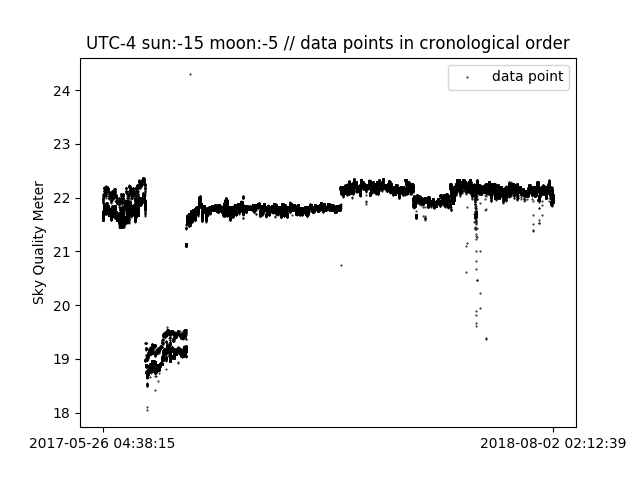
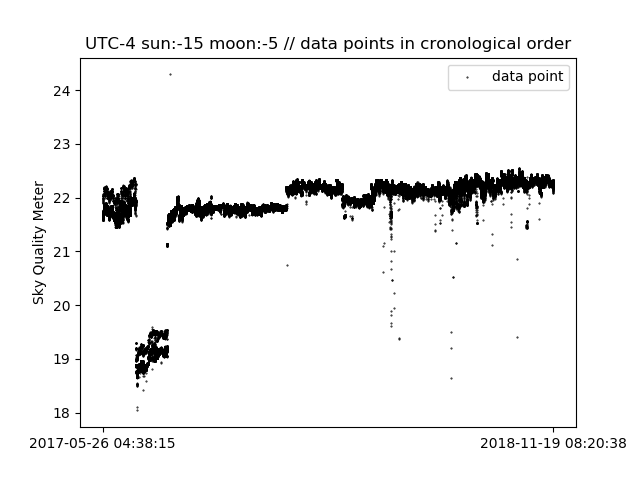
asd

diff --git a/offsets_corr.py b/offsets_corr.py
@@ -14,20 +14,19 @@ from datetime import datetime
 import matplotlib.dates as mdates
 
 [db_cursor, database] = WS.db_connect()
-search = "SELECT `UTC`, `sqm` FROM `weather` WHERE \
-`UTC` >= '2017-01-01 03:29:25' AND `UTC` <= '2018-12-01 01:08:24' AND \
+search = "SELECT `fecha`, `sqm` FROM `weather` WHERE \
 `SunElevation` < -15 AND `MoonElevation` < -5 AND \
-`weatherstatus`= 'Go Science!' ORDER BY `UTC` ASC LIMIT 1000000"
+`weatherstatus`= 'Go Science!' ORDER BY `fecha` ASC"
 
 db_cursor.execute(search)
 res = db_cursor.fetchall()
 print "From ", res[0], " to ", res[-1]
-# y = []
-# x = []
-# offset = 0.7-3.2+2.09+0.32-0.28-0.11-0.19-0.29+0.28+0.34
-# y2 = []
-# x2 = []
-# offset2 = 0.7+2.09+0.32-0.28-0.11-0.19-0.29+0.28+0.34
+y = []
+x = []
+offset = 0.7-3.2+2.09+0.32-0.28-0.11-0.19-0.29+0.28+0.34
+y2 = []
+x2 = []
+offset2 = 0.7+2.09+0.32-0.28-0.11-0.19-0.29+0.28+0.34
 y3 = []
 x3 = []
 offset3 = 0.35+0.32-0.28-0.11-0.19-0.29+0.28+0.34
@@ -55,19 +54,20 @@ counter = 0
 for e in res:
     #print e[0]
     date = datetime.strptime(e[0], '%Y-%m-%d %H:%M:%S')
-    if (date.hour-4)  >= 0 and (date.hour-4) < 12:
-        time = datetime(1900,1,2,(date.hour-4),date.minute,date.second,0)
-    elif (date.hour-4) < 0:
-        time = datetime(1900,1,1,24+(date.hour-4),date.minute,date.second,0)
-    else:
-        time = datetime(1900,1,1,(date.hour-4),date.minute,date.second,0)
-    # if e[0] <= '2017-07-04 10:29:14':
-    # 	x.append(time)
-    # 	y.append(e[1] + offset)
-    # elif e[0] <= '2017-08-05 10:17:15':
-    #     x2.append(time)
-    # 	y2.append(e[1] + offset2)
-    if e[0] <= '2017-11-30 08:15:29' and e[0] > '2017-08-05 10:17:15':
+    time = date
+    # if (date.hour-4)  >= 0 and (date.hour-4) < 12:
+    #     time = datetime(1900,1,2,(date.hour-4),date.minute,date.second,0)
+    # elif (date.hour-4) < 0:
+    #     time = datetime(1900,1,1,24+(date.hour-4),date.minute,date.second,0)
+    # else:
+    #     time = datetime(1900,1,1,(date.hour-4),date.minute,date.second,0)
+    if e[0] <= '2017-07-04 10:29:14':
+    	x.append(time)
+    	y.append(e[1] + offset)
+    elif e[0] <= '2017-08-05 10:17:15':
+        x2.append(time)
+    	y2.append(e[1] + offset2)
+    elif e[0] <= '2017-11-30 08:15:29':
         x3.append(time)
     	y3.append(e[1] + offset3)
     elif e[0] <= '2018-01-29 08:54:35':
@@ -94,8 +94,8 @@ for e in res:
     counter += 1
 
 print "There are " + str(counter) + " data points."
-#plt.scatter(x, y, 0.2, c='black', alpha=1)
-#plt.scatter(x2, y2, 0.2, c='r', alpha=1)
+plt.scatter(x, y, 0.2, c='black', alpha=1)
+plt.scatter(x2, y2, 0.2, c='r', alpha=1)
 plt.scatter(x3, y3, 0.05, c='black', alpha=0.05)
 plt.scatter(x4, y4, 0.05, c='black', alpha=0.05)
 plt.scatter(x5, y5, 0.05, c='black', alpha=0.05)
@@ -107,12 +107,16 @@ plt.scatter(x10, y10, 0.05, c='black', alpha=0.05)
 #plt.legend()
 plt.title('UTC // sun:-15 moon:-5 // first months filtered // offsets applied')
 plt.ylabel('Sky Quality Meter')
-time_start = datetime(1900,1,1,19,0,0,0)
-time_end = datetime(1900,1,2,6,59,59,999999)
+# time_start = datetime(1900,1,1,19,0,0,0)
+# time_end = datetime(1900,1,2,6,59,59,999999)
+#'2017-08-05 10:17:15'
+#'2018-08-11 00:44:30'
+time_start = datetime(2017,8,5,10,17,15,0)
+time_end = datetime(2018,8,11,0,44,30,0)
 plt.xlim(time_start, time_end)
 plt.grid(True)
 plt.gcf().autofmt_xdate()
 myFmt = mdates.DateFormatter('%H:%M')
 plt.gca().xaxis.set_major_formatter(myFmt)
-plt.savefig("offsets_corr3.png")
+plt.savefig("offsets_corr5.png")
 plt.show()

diff --git a/offsets_sid.py b/offsets_sid.py
@@ -50,6 +50,8 @@ offset8 = 0.28+0.34
 y9 = []
 x9 = []
 offset9 = 0.34
+y10 = []
+x10 = []
 counter = 0
 for e in res:
     time = datetime.strptime(e[2], '%H:%M:%S.%f')
@@ -60,7 +62,7 @@ for e in res:
     # elif e[0] <= '2017-08-05 10:17:15':
     #     x2.append(time)
     # 	y2.append(e[1] + offset2)
-    if e[0] <= '2017-11-30 08:15:29' and e[0] > '2017-08-05 10:17:15':
+    if e[0] <= '2017-11-30 08:15:29':
         x3.append(time)
     	y3.append(e[1] + offset3)
     elif e[0] <= '2018-01-29 08:54:35':
@@ -81,18 +83,22 @@ for e in res:
     elif e[0] <= '2018-02-22 09:19:23':
         x9.append(time)
     	y9.append(e[1] + offset9)
+    else:
+        x10.append(time)
+        y10.append(e[1])
     counter += 1
 
 print "There are " + str(counter) + " data points."
 # plt.scatter(x, y, 1, c='black', alpha=0.05)
 # plt.scatter(x2, y2, 1, c='r', alpha=0.05)
-plt.scatter(x3, y3, 0.1, c='black', alpha=0.05)
-plt.scatter(x4, y4, 0.1, c='black', alpha=0.05)
-plt.scatter(x5, y5, 0.1, c='black', alpha=0.05)
-plt.scatter(x6, y6, 0.1, c='black', alpha=0.05)
-plt.scatter(x7, y7, 0.1, c='black', alpha=0.05)
-plt.scatter(x8, y8, 0.1, c='black', alpha=0.05)
-plt.scatter(x9, y9, 0.1, c='black', alpha=0.05)
+plt.scatter(x3, y3, 0.05, c='black', alpha=0.05)
+plt.scatter(x4, y4, 0.05, c='black', alpha=0.05)
+plt.scatter(x5, y5, 0.05, c='black', alpha=0.05)
+plt.scatter(x6, y6, 0.05, c='black', alpha=0.05)
+plt.scatter(x7, y7, 0.05, c='black', alpha=0.05)
+plt.scatter(x8, y8, 0.05, c='black', alpha=0.05)
+plt.scatter(x9, y9, 0.05, c='black', alpha=0.05)
+#plt.scatter(x10, y10, 0.05, c='black', alpha=0.05)
 #plt.legend()
 plt.title('Sidereal time // sun:-15 moon:-5 // offsets applied')
 plt.ylabel('Sky Quality Meter')
@@ -103,5 +109,5 @@ plt.grid(True)
 plt.gcf().autofmt_xdate()
 myFmt = mdates.DateFormatter('%H:%M')
 plt.gca().xaxis.set_major_formatter(myFmt)
-plt.savefig("offsets_sid.png")
+plt.savefig("offsets_sid_antes.png")
 plt.show()

diff --git a/modMySQL_p2.py b/modMySQL_p2.py
@@ -1,0 +1,42 @@
+######### DESCRIPCION ###########################################
+# modMySQL_p2.py
+# Primer set de datos (id 469891 a 469950) de la hora del cambio 
+# de hora, estos aun son fecha en UTC-3. Despues segundo set de 
+# datos (id 469951 a 470010), estos ya son fecha en UTC-4.
+# O almenos parto desde esa idea.
+#################################################################
+
+#!/usr/bin/python
+import WeatherStatistics as WS
+import numpy as np
+#matplotlib.use("Agg")
+from matplotlib import pyplot as plt
+import matplotlib.dates as mpldates
+import dateutil
+from numpy import append,array,where,pi,polyfit,where,mean
+from pylab import cm
+import datetime
+import pymysql.cursors
+import ephemerids
+
+[db_cursor, database] = WS.db_connect()
+search = "SELECT `fecha`, `id` FROM `weather_calib` \
+WHERE `id` > '469890' \
+AND `id` < '469951'"
+
+db_cursor.execute(search)
+res = db_cursor.fetchall()
+print "From ", res[0], " to ", res[-1]
+
+for e in res:
+    fecha = e[0]
+    delta = datetime.timedelta(hours=3)
+    UTC = fecha + delta
+    id = e[1]
+    print id
+
+    modify = "UPDATE `weather_calib` \
+    SET `UTC` = '%s' \
+    WHERE `id` = '%s'" % (UTC, id)
+
+    db_cursor.execute(modify)

diff --git a/modMySQL.py b/modMySQL.py
@@ -1,0 +1,42 @@
+######### DESCRIPCION ########################################
+# modMySQL.py
+# UTC calculado para datos entre '2018-04-29 14:44:32' y 
+# '2018-05-12 22:59:38' (suponiendo que fecha esta en formato 
+# UTC-4 durante horario de invierno.
+##############################################################
+
+#!/usr/bin/python
+import WeatherStatistics as WS
+import numpy as np
+#matplotlib.use("Agg")
+from matplotlib import pyplot as plt
+import matplotlib.dates as mpldates
+import dateutil
+from numpy import append,array,where,pi,polyfit,where,mean
+from pylab import cm
+import datetime
+import pymysql.cursors
+import ephemerids
+
+
+[db_cursor, database] = WS.db_connect()
+search = "SELECT `fecha`, `id` FROM `weather_calib` \
+WHERE `id` > '450918' \
+AND `id` < '469891'"
+
+db_cursor.execute(search)
+res = db_cursor.fetchall()
+print "From ", res[0], " to ", res[-1]
+
+for e in res:
+    fecha = e[0]
+    delta = datetime.timedelta(hours=3)
+    UTC = fecha + delta
+    id = e[1]
+    print id
+
+    modify = "UPDATE `weather_calib` \
+    SET `UTC` = '%s' \
+    WHERE `id` = '%s'" % (UTC, id)
+
+    db_cursor.execute(modify)

diff --git a/modMySQL_p3.py b/modMySQL_p3.py
@@ -1,0 +1,40 @@
+############### DESCRIPCION ##################################
+# modMySQL_p3.py
+# Los datos despues de p2 (id 470011 a 576186), es decir desde 
+# 13 Mayo hasta el 2018-07-27 14:42:44. Son horario invierno, 
+# es decir UTC-4. 
+##############################################################
+#!/usr/bin/python
+import WeatherStatistics as WS
+import numpy as np
+#matplotlib.use("Agg")
+from matplotlib import pyplot as plt
+import matplotlib.dates as mpldates
+import dateutil
+from numpy import append,array,where,pi,polyfit,where,mean
+from pylab import cm
+import datetime
+import pymysql.cursors
+import ephemerids
+
+[db_cursor, database] = WS.db_connect()
+search = "SELECT `fecha`, `id` FROM `weather_calib` \
+WHERE `id` >= '470011' \
+AND `id` <= '576186'"
+
+db_cursor.execute(search)
+res = db_cursor.fetchall()
+print "From ", res[0], " to ", res[-1]
+
+for e in res:
+    fecha = e[0]
+    delta = datetime.timedelta(hours=4)
+    UTC = fecha + delta
+    id = e[1]
+    print id
+
+    modify = "UPDATE `weather_calib` \
+    SET `UTC` = '%s' \
+    WHERE `id` = '%s'" % (UTC, id)
+
+    db_cursor.execute(modify)

diff --git a/plot1.py b/plot1.py
@@ -15,9 +15,8 @@ colors = ['r', 'y', 'b', 'greenyellow', 'c', 'g', 'black']
 
 [db_cursor, database] = WS.db_connect()
 search = "SELECT `UTC`, `sqm` FROM `weather` WHERE \
-`UTC` >= '2017-01-01 03:29:25' AND `UTC` <= '2018-12-25 01:08:24' AND \
 `SunElevation` < -15 AND `MoonElevation` < -5 AND \
-`weatherstatus`= 'Go Science!' ORDER BY `UTC` ASC LIMIT 1000000"
+`weatherstatus`= 'Go Science!' ORDER BY `UTC` ASC"
 
 db_cursor.execute(search)
 res = db_cursor.fetchall()
@@ -39,5 +38,5 @@ plt.ylabel('Sky Quality Meter')
 ticks = [0, counter-1]
 ticks_labels = ['%s' % (res[0][0]), '%s' % (res[-1][0])]
 plt.xticks(ticks, ticks_labels)
-plt.savefig("1_alldatapoints.png")
+plt.savefig("1_alldatapoints_UTC.png")
 plt.show()
